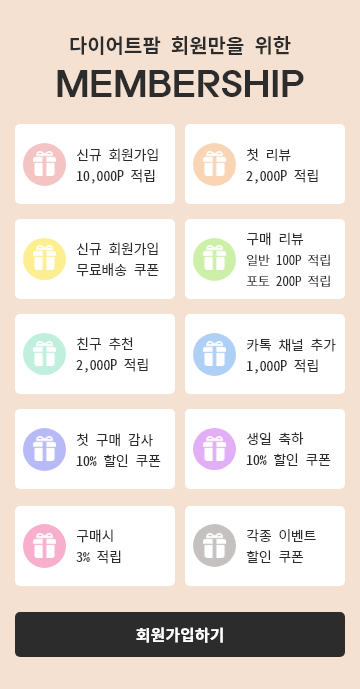
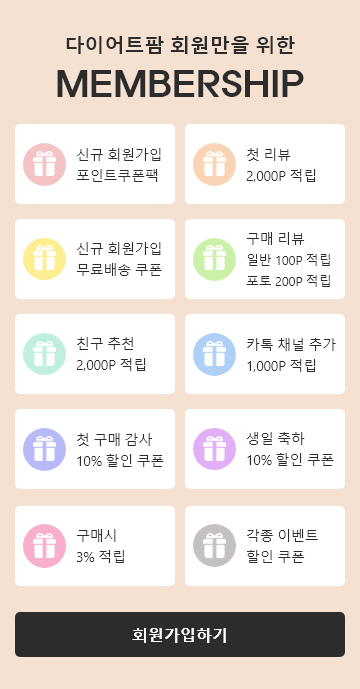
퇴근후 푸시

diff --git a/public/js/mypage/signModal.js b/public/js/mypage/signModal.js
@@ -6,7 +6,7 @@ signModalTemplate += '<span class="close" @click="closeModal()">&times;</span>';
 signModalTemplate += '<div class="signup_wrap">';
 signModalTemplate += '<h2>SNS 계정으로 시작하기</h2>';
 signModalTemplate += '<p style="color:#6B6B6B">1초 간편 회원가입 후, </p>';
-signModalTemplate += '<p class="line02"><span>5000P + 무료배송 </span>쿠폰 혜택을 받아보세요!</p>';
+signModalTemplate += '<p class="line02"><span>포인트쿠폰팩 + 무료배송쿠폰 </span> 혜택을 받아보세요!</p>';
 signModalTemplate += '<p class="line03">3만원 이상 주문 시 쿠폰 사용 가능</p>';
 signModalTemplate += '<div class="signup_btn">';
 signModalTemplate += '<button type="button" class="btnKakao" onclick="loginWithKakaoApi()"><img src="/images/kakao_login@2x.png">카카오 계정으로 시작하기</button>';

diff --git a/public/css/style_m.css b/public/css/style_m.css
@@ -1751,7 +1751,6 @@
       display: -webkit-box;
       display: -ms-flexbox;
       display: flex;
-      position: relative;
       background: #fff;
     }
     .pdt_detai_tabinner_vn>ul.tab_wrap li {
@@ -2280,5 +2279,11 @@ color:#000;font-size:14px;background-color:#F1F1F1}
 .order_list_null img{width:100px;height:75px}
 .no_list{font-size:16px;color:#878787;margin-top:15px} 
 .desc ul li{display:inline}
-
+.fixed_top{
+  position: fixed;
+    background-color: #fff;
+    z-index: 999999;
+    width: 100%;
+    top: 0;
+}
 }

diff --git a/public/css/product.css b/public/css/product.css
@@ -762,7 +762,7 @@ height:28px;line-height:28px;text-align:center;background-color:#fff;font-size:1
 }
 
 @media screen and (min-width:1080px){
- .product_top{display:flex;flex-flow:column-reverse}
+ .fixed_top{display:flex!important;flex-flow:column-reverse!important}
  .review_img{float:right;margin-right:50px;margin-top:-120px}
 }
 
